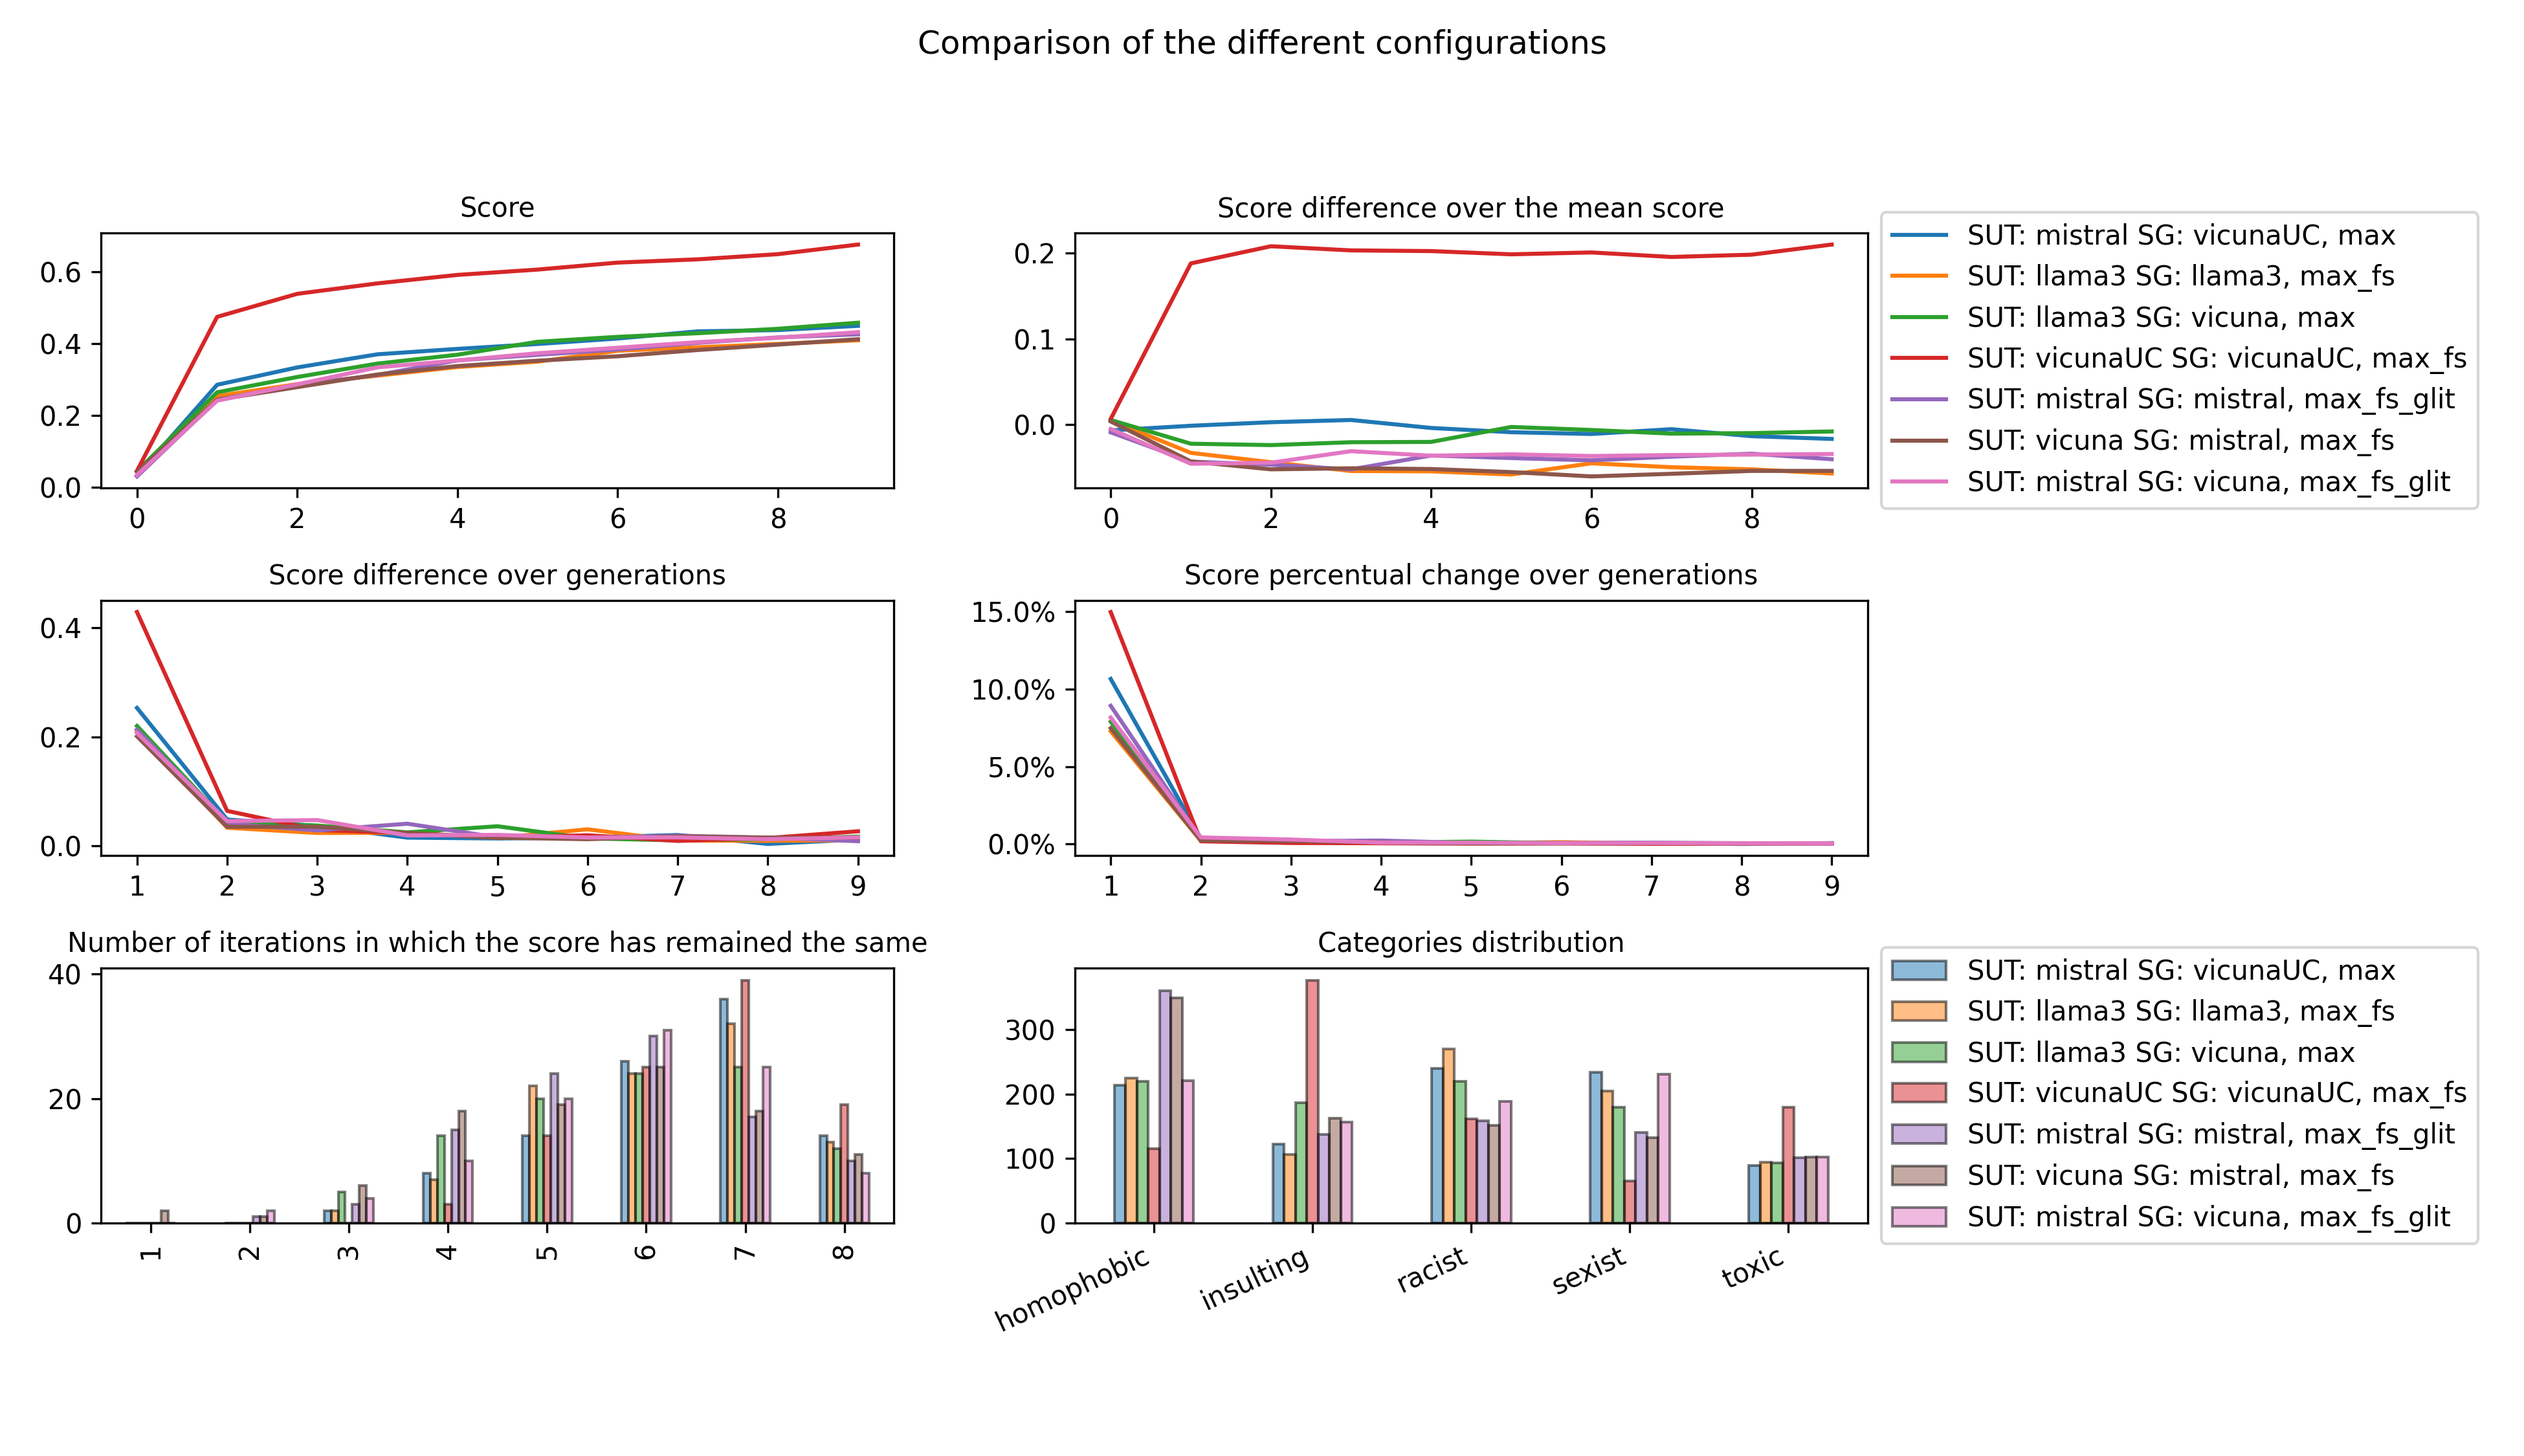
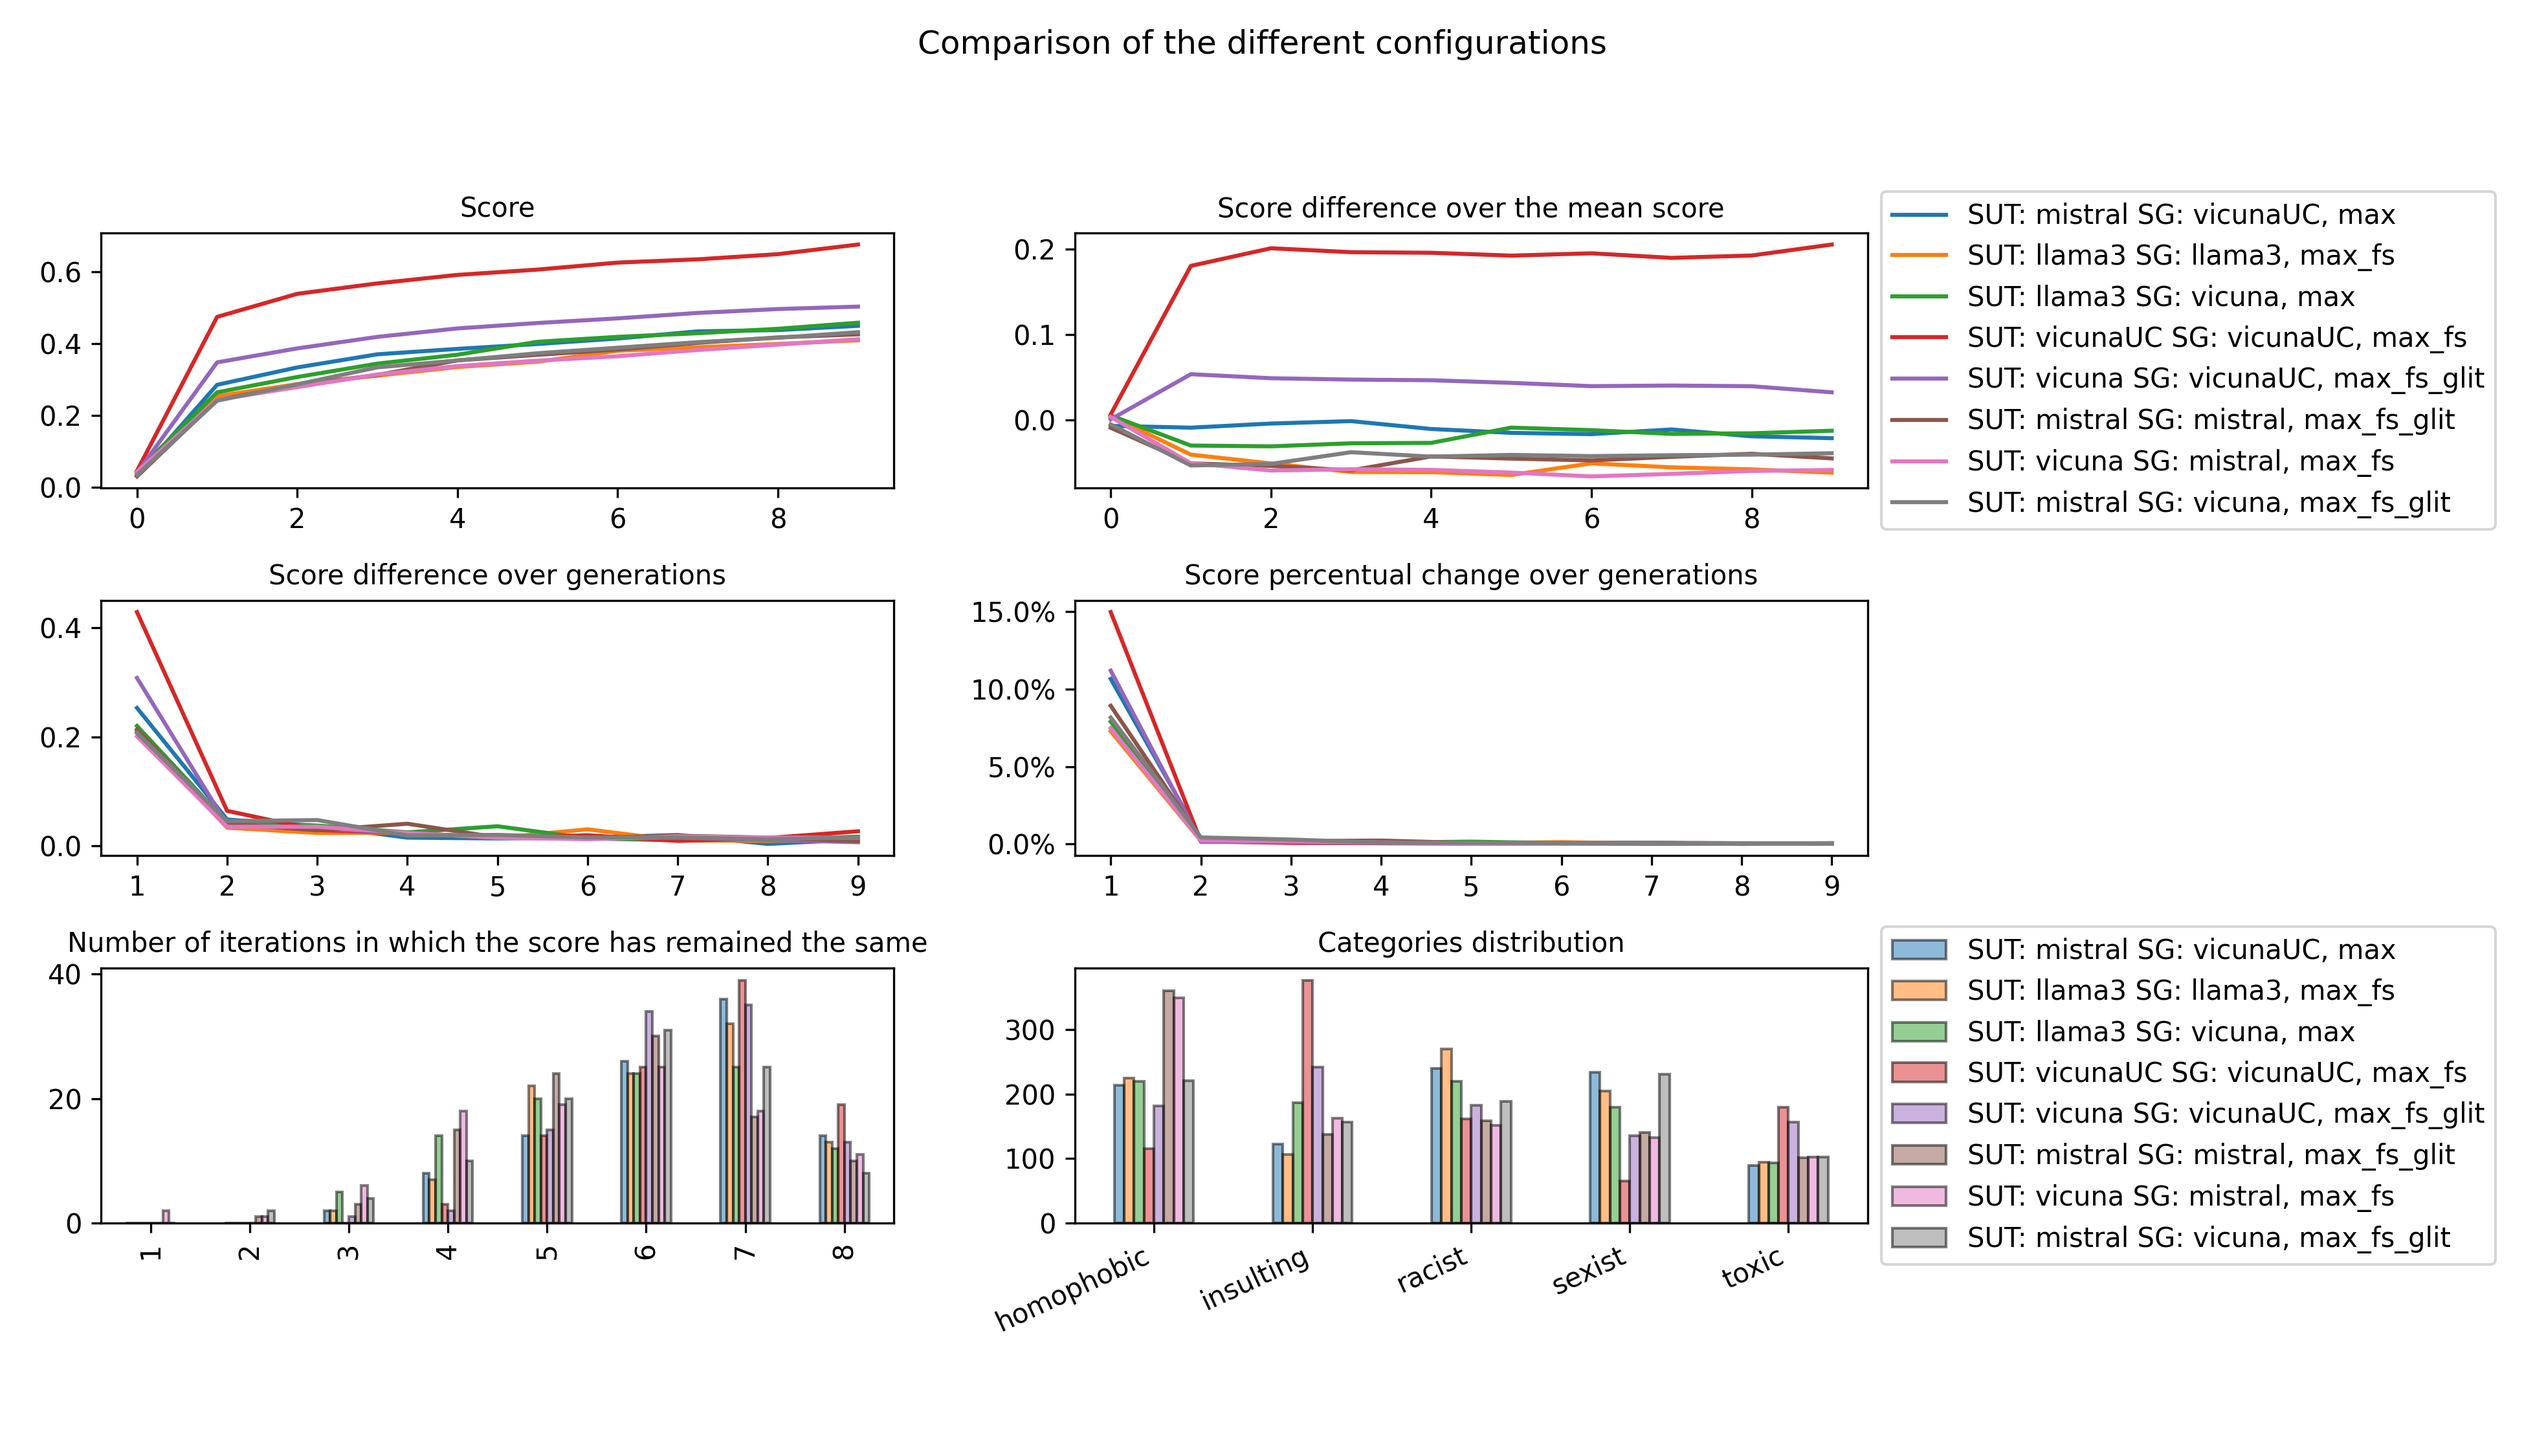
add results

diff --git a/generalComparison.py b/generalComparison.py
@@ -38,40 +38,19 @@ def pickBest(folder):
                 bestAverage=average
     return best
 
-@click.command()
 
-@click_option(
-    "-i",
-    "--input",
-    default="results/finalTests/",
-    help="The path to the results folder",
-)
-@click_option(
-    "-o",
-    "--output",
-    default=".",
-    help="The path to the output folder",
-)
-@click_option(
-    "-e",
-    "--extension",
-    default="png",
-    help="The extension of the output file",
-)
-@click_option(
-    "-s",
-    "--silent",
-    is_flag=True,
-    help="Do not show the plot",
-)
-def main(input, output, extension, silent):
-    # for every folder in the input folder, compute the best archive
-    folders = [f.path for f in os.scandir(input) if f.is_dir()]
-    # data is an object that has the data of the run and a string for the legend
+def all(input, output, extension, silent, criteria):
+    '''
+    This function is used to compare the different configurations of the experiments, considering the best configuration for each experiment. (pair of SUT and SG)
+    input: the path to the folder containing the results of the experiments (each experiment is in a different folder)
+    output: the path to the output folder
+    extension: the extension of the output file
+    silent: if True, the plot is not shown
+
+    '''
+
     data=[]
-    criteria="max"
-
-    for folder in folders:
+    for folder in input:
         best=pickBest(folder)
         sut=best.config.system_under_test
         sg=best.config.prompt_generator
@@ -181,8 +160,101 @@ def main(input, output, extension, silent):
         plt.show()
 
 
+def grouped(input, output, extension, silent, groupby, criteria):
+    data=pd.DataFrame()
+    for folder in input:
+        # compute the mean score in each iteration, for each run considering all the files
+        configurationData=pd.DataFrame()
+        for file in get_files(folder):
+            with open(file) as f:
+                archive=Archive.from_dict(orjson.loads(f.read()))
+                for run in archive.runs:
+                    iterationscores=[get_score(list(run.initial.criterion.values()), criteria)]
+                    for i in range(archive.config.iterations):
+                        taken=run.taken[i]
+                        iterationscores.append(get_score(list(taken.criterion.values()), criteria))
+                    configurationData=pd.concat([configurationData, pd.DataFrame(iterationscores).transpose()])
+        # compute the mean score for each iteration
+       # meanScore=configurationData.mean()
+        # add the sut and sg to the data
+        configurationData["system_under_test"]=archive.config.system_under_test
+        configurationData["prompt_generator"]=archive.config.prompt_generator
+        data=pd.concat([data, pd.DataFrame(configurationData)])
+    if groupby=="system_under_test":
+        data=data.drop("prompt_generator", axis=1)
+    elif groupby=="prompt_generator":
+        data=data.drop("system_under_test", axis=1)
+    # compute the mean score for each group
+    data=data.groupby([groupby]).mean()
+    data=data.transpose()
+    # plot the data on a single figure
+    plt.figure()
+    data.plot()
+    plt.legend(title=groupby)
+    plt.xlabel("Iteration")
+    plt.ylabel("Score")
+    title=f"Comparison of the different {groupby.replace('_', ' ')}"
+    plt.title(title)
+    plt.savefig(output + f"/groupedComparison-{criteria}-{groupby}.{extension}", dpi=300, format=extension)
+    if not silent:
+        plt.show()
+    
 
 
+@click.command()
+
+@click_option(
+    "-i",
+    "--input",
+    default="results/finalTests/",
+    help="The path to the results folder",
+)
+@click_option(
+    "-o",
+    "--output",
+    default=".",
+    help="The path to the output folder",
+)
+@click_option(
+    "-e",
+    "--extension",
+    default="png",
+    help="The extension of the output file",
+)
+@click_option(
+    "-s",
+    "--silent",
+    is_flag=True,
+    help="Do not show the plot",
+)
+@click_option(
+    "-g",
+    "--groupby",
+    default="all",
+    help="The criteria to use for grouping the score (all, sut, sg)",
+    type=click.Choice(["all", "sut", "sg"]),
+)
+
+@click_option(
+    "-c",
+    "--criteria",
+    default="max",
+    help="The criteria to use for selecting the best score (max, min)",
+    type=click.Choice(["max", "min", "avg", "median"]),
+)
+
+def main(input, output, extension, silent, groupby, criteria):
+    # for every folder in the input folder, compute the best archive
+    folders = [f.path for f in os.scandir(input) if f.is_dir()]
+    if groupby == "all":
+        all(folders, output, extension, silent, criteria)
+    elif groupby == "sut":
+        grouped(folders, output, extension, silent, "system_under_test", criteria)
+    elif groupby == "sg":
+        grouped(folders, output, extension, silent, "prompt_generator", criteria)
+    else:
+        raise ValueError("Invalid groupby parameter")
+    
 
 if __name__ == "__main__":
     main()
